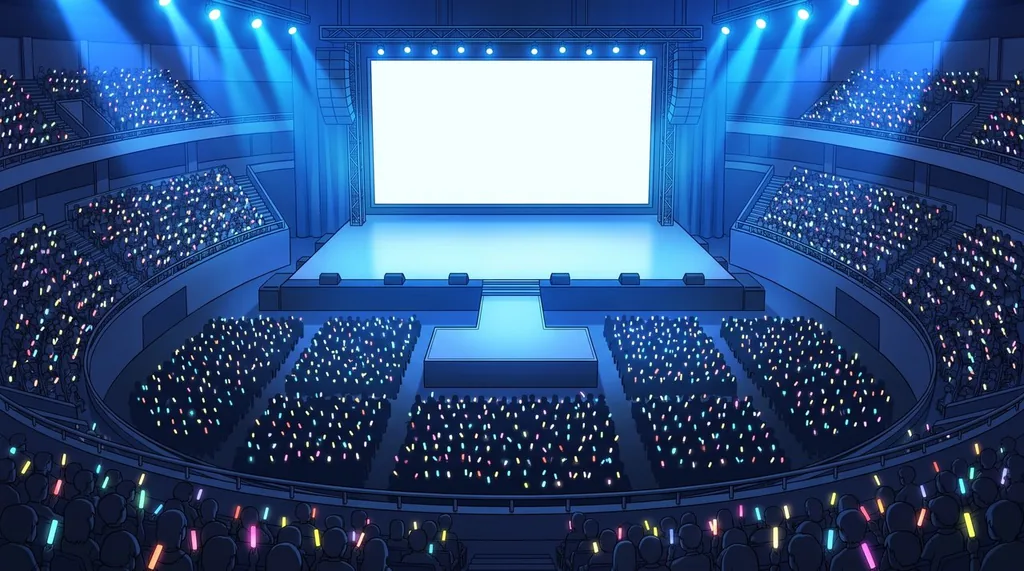
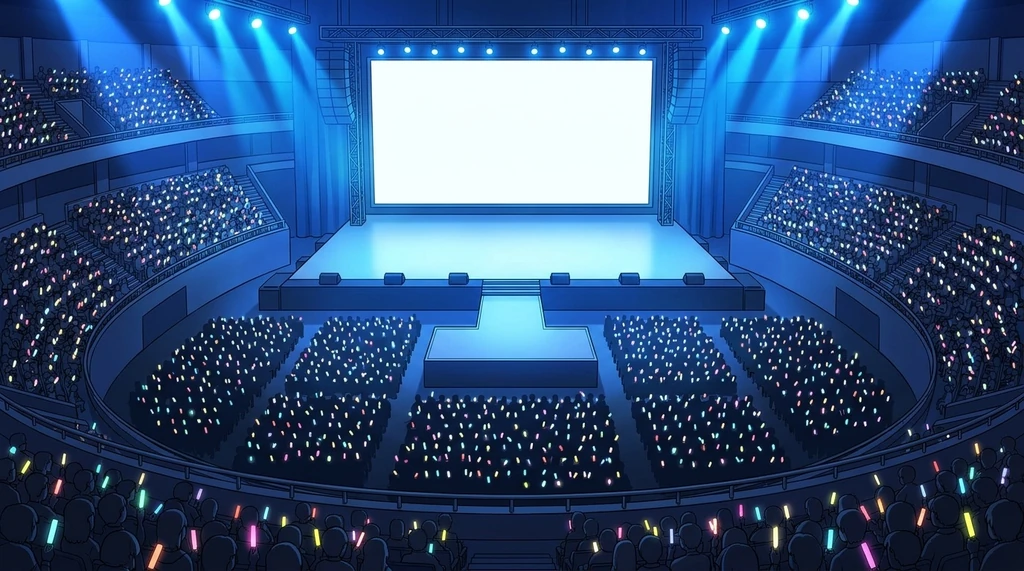
画像を追加：SIGNAL BOYSの切り抜き、スタッフ3人、野外ステージ（外観・本番）、アリーナの本番背景を差し替え、KAITOのペンライトを差し替え
Claude-Session: https://claude.ai/code/session_01UvvqKZSGyUN7C6oBseGgfe

diff --git a/index.html b/index.html
@@ -813,7 +813,7 @@ const ICONS={video:'<rect x="3" y="5" width="18" height="14" rx="3"/><path d="M1
 };
 function ic(n,cls=''){return `<svg class="ic ${cls}" viewBox="0 0 24 24" fill="none" stroke="currentColor" stroke-width="1.8" stroke-linecap="round" stroke-linejoin="round" aria-hidden="true">${ICONS[n]}</svg>`;}
 /* ========== イラスト（アーティスト・グッズ）をSVGで描く ========== */
-let artSeq=0;let IMG=false;const MERCH_ART=new Set(['mizuiro','blaze','chamber','hoshino','neon','kaito']);const MERCH_IMG=new Set([...['mizuiro','blaze','chamber','hoshino','neon','kaito','jazz','signal','origin'].flatMap(x=>['tee','towel','pamph','light','cd','acsta'].map(m=>x+'-'+m))].filter(k=>k!=='neon-acsta'));const NO_CUT=new Set(['signal']);const BASE_ART=new Set(['jazz','signal','origin','mizuiro','blaze','chamber','hoshino','neon','kaito','box','horizon','civic','arena','dome']);const hasArt=id=>IMG&&BASE_ART.has(id);const AST='assets/';
+let artSeq=0;let IMG=false;const MERCH_ART=new Set(['mizuiro','blaze','chamber','hoshino','neon','kaito']);const MERCH_IMG=new Set([...['mizuiro','blaze','chamber','hoshino','neon','kaito','jazz','signal','origin'].flatMap(x=>['tee','towel','pamph','light','cd','acsta'].map(m=>x+'-'+m))].filter(k=>k!=='neon-acsta'));const NO_CUT=new Set([]);const BASE_ART=new Set(['jazz','signal','origin','mizuiro','blaze','chamber','hoshino','neon','kaito','box','horizon','civic','arena','dome','park']);const hasArt=id=>IMG&&BASE_ART.has(id);const AST='assets/';
 const SKIN=['#f2c9a5','#e8b48f','#d9a07a','#f5d5b8'];
 function fig(o){
   const s=o.s||1,sk=o.skin||SKIN[0],hc=o.hc||'#222';
@@ -2257,9 +2257,9 @@ const STAFF=[
  {id:'account',name:'経理担当',role:'借入の利息5%→2%、保険料3%→2%、つなぎ融資の手数料なし',lv:['利息2%・保険料2%・つなぎ手数料なし','保険料1.5%','銀行の借入枠+20%'],sal:40000,rep:0,f:{hair:'slick',hc:'#555',skin:SKIN[0],out:'#3a3a50',out2:'#cfe0ff',glasses:true}},
  {id:'booker',name:'ブッキング担当',role:'ライバルに日程を取られにくく、取り合いも起きにくい',lv:['日程を取られにくい・取り合い減','会場費5%引き（顔が利く）','会場費8%引き・取り合いほぼなし'],sal:60000,rep:20,f:{hair:'long',hc:'#3a2028',skin:SKIN[3],out:'#5a189a',out2:'#ff8fab'}},
  {id:'pr',name:'広報（PR）',role:'取材の売り込み成功率+20%。炎上やうわさの悪影響が半分',lv:['売り込み成功率+20%・炎上の影響半分','売り込み成功率+30%','話題度が冷めにくい'],sal:40000,rep:10,f:{hair:'twin',hc:'#4a2a18',skin:SKIN[0],out:'#2a7a5a',out2:'#fff'}},
- {id:'pm',name:'制作進行',role:'同時に進められる公演が1本増える',lv:['同時進行の枠+1','本番の運営費（人件費・警備など）−10%','運営費−15%'],sal:90000,rep:30,img:false,f:{hair:'slick',hc:'#222',skin:SKIN[1],out:'#2f4f4f',out2:'#9fe8c8',glasses:true}},
- {id:'sns',name:'SNS運用担当',role:'SNS広告・動画広告・インフルエンサーの効果+20%',lv:['ネット宣伝の効果+20%','ネット宣伝の効果+30%','ネット宣伝の効果+40%'],sal:50000,rep:5,img:false,f:{hair:'bob',hc:'#2a6aff',skin:SKIN[1],out:'#1a1a2e',out2:'#4dd8ff'}},
- {id:'ticket',name:'チケット担当',role:'値上げ・値下げをしても満足度が下がらない',lv:['価格変更で満足度が下がらない','プレイガイド手数料8%→7%','価格変更に行動力がいらない'],sal:50000,rep:12,img:false,f:{hair:'short',hc:'#5a3a1a',skin:SKIN[2],out:'#7a4a10',out2:'#ffd23f'}},
+ {id:'pm',name:'制作進行',role:'同時に進められる公演が1本増える',lv:['同時進行の枠+1','本番の運営費（人件費・警備など）−10%','運営費−15%'],sal:90000,rep:30,f:{hair:'slick',hc:'#222',skin:SKIN[1],out:'#2f4f4f',out2:'#9fe8c8',glasses:true}},
+ {id:'sns',name:'SNS運用担当',role:'SNS広告・動画広告・インフルエンサーの効果+20%',lv:['ネット宣伝の効果+20%','ネット宣伝の効果+30%','ネット宣伝の効果+40%'],sal:50000,rep:5,f:{hair:'bob',hc:'#2a6aff',skin:SKIN[1],out:'#1a1a2e',out2:'#4dd8ff'}},
+ {id:'ticket',name:'チケット担当',role:'値上げ・値下げをしても満足度が下がらない',lv:['価格変更で満足度が下がらない','プレイガイド手数料8%→7%','価格変更に行動力がいらない'],sal:50000,rep:12,f:{hair:'short',hc:'#5a3a1a',skin:SKIN[2],out:'#7a4a10',out2:'#ffd23f'}},
 ];
 const has=id=>!!(S&&S.staff&&S.staff[id]);
 function lv(id){if(!has(id))return 0;const x=(S.sxp&&S.sxp[id])||0;return x>=6?3:x>=3?2:1;}
@@ -2626,7 +2626,7 @@ function renderCoach(){
 function skipTut(){if(S&&S.tut)S.tut.on=false;renderCoach();save();}
 
 /* ========== 起動 ========== */
-const HAVE={};const OPT=['bg-title','stage-box','stage-horizon','stage-civic','stage-arena','stage-dome','scene-soldout','scene-legend','scene-bankrupt','scene-bought','scene-win','scene-end'];
+const HAVE={};const OPT=['bg-title','stage-box','stage-horizon','stage-civic','stage-arena','stage-dome','stage-park','scene-soldout','scene-legend','scene-bankrupt','scene-bought','scene-win','scene-end'];
 function probeOpt(){OPT.forEach(n=>{const t=new Image();t.onload=()=>{HAVE[n]=true;if(!S||S.phase==='end')render();};t.src=AST+n+'.webp';});}
 function sceneBg(n,dark){return HAVE[n]?`background-image:linear-gradient(rgba(16,8,18,${dark}),rgba(16,8,18,${Math.min(.95,dark+.25)})),url(${AST}${n}.webp);background-size:cover;background-position:center`:'';}
 function stageBg(v,R){
